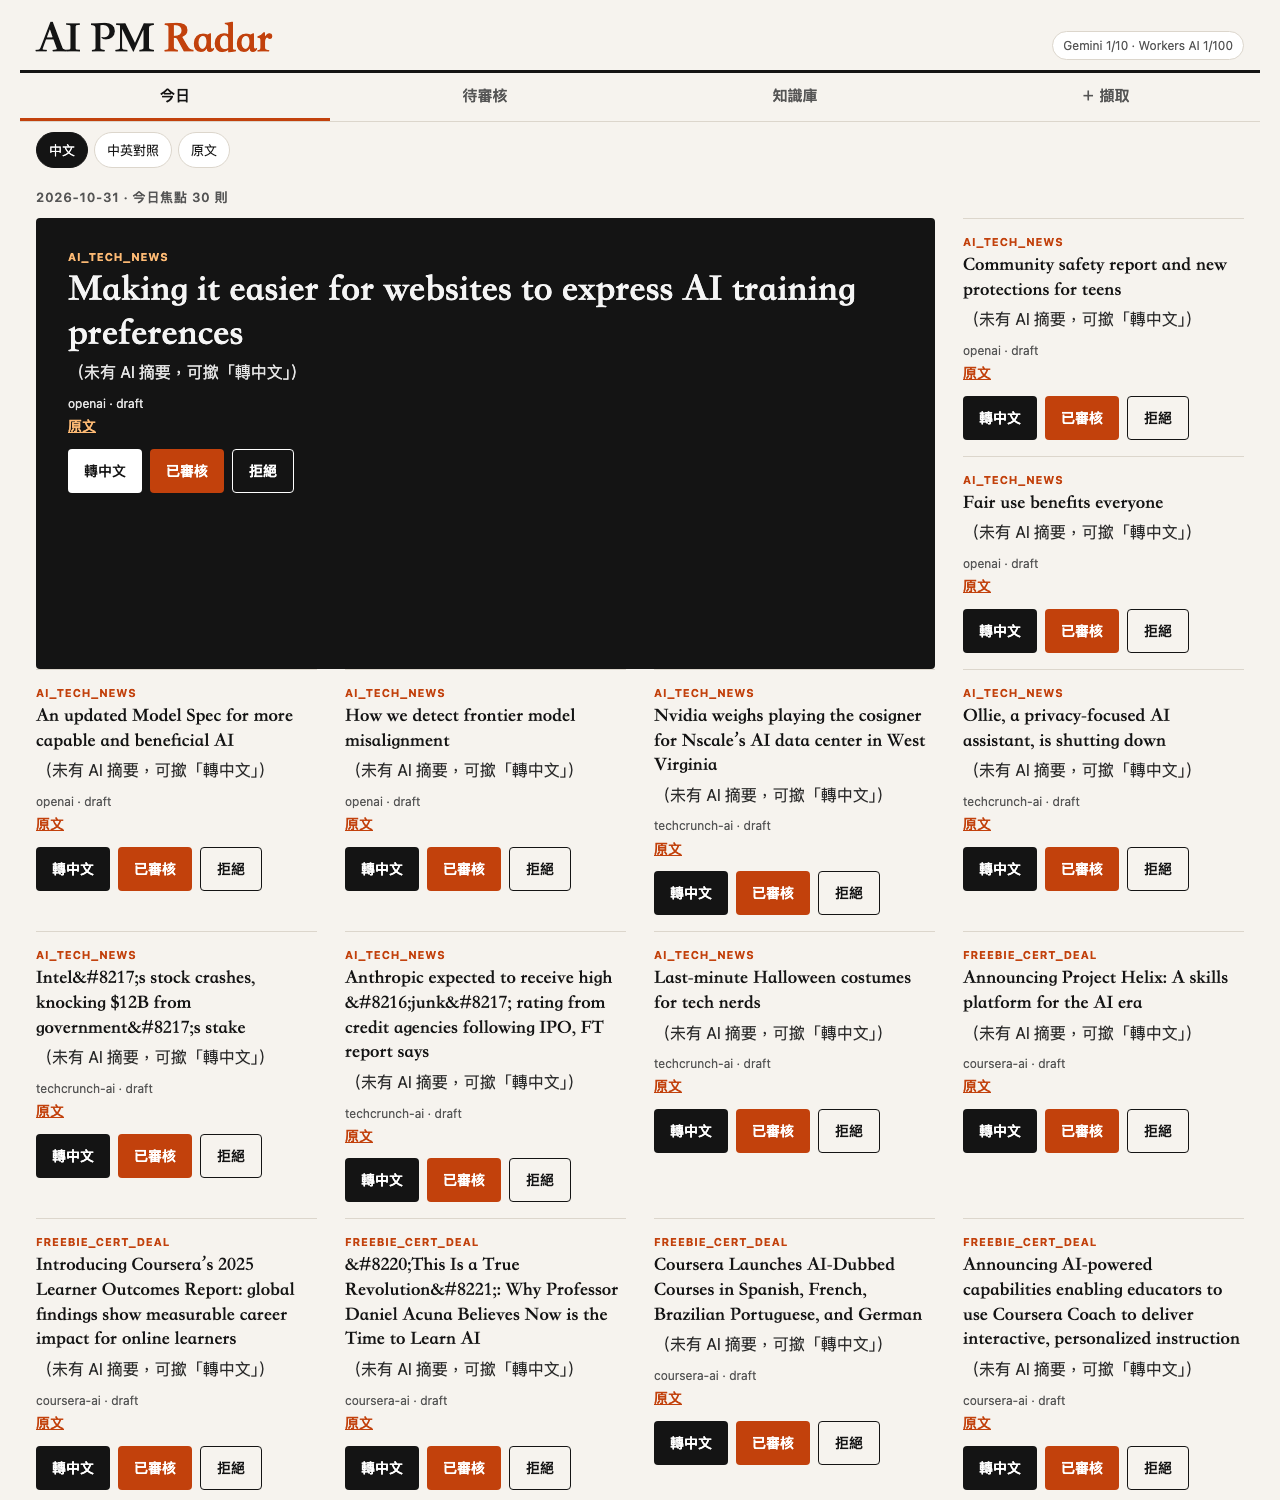
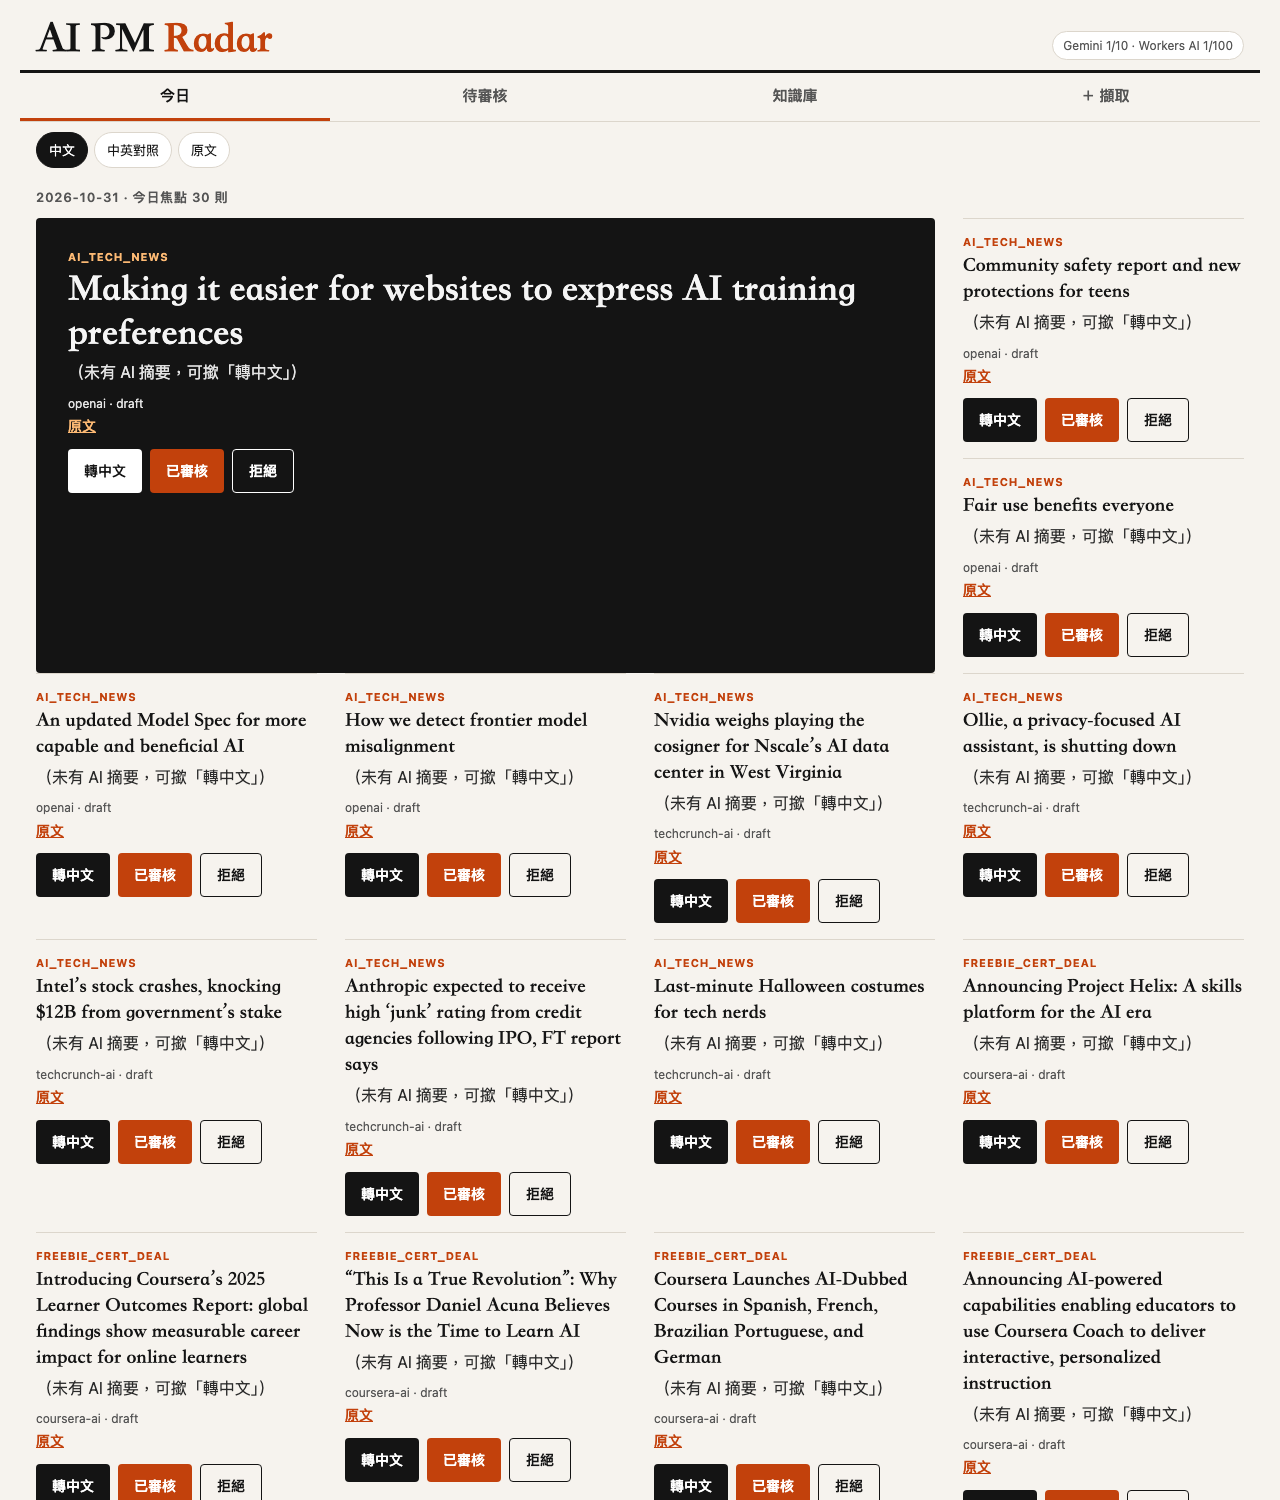
cloud UI: fix mobile overflow (minmax grid, wrapping titles, clamp fonts, fitting tabs); decode HTML entities in collector + render

diff --git a/cloud/public/app.css b/cloud/public/app.css
@@ -1,16 +1,16 @@
 :root{--bg:#f6f3ee;--ink:#141414;--mut:#555;--line:#dcd6cc;--acc:#c2410c;--card:#fff;--serif:"Songti TC","Noto Serif CJK TC",Georgia,"Times New Roman",serif;--sans:system-ui,-apple-system,"PingFang HK","Noto Sans CJK TC",sans-serif}
-*{box-sizing:border-box}body{margin:0;font:16px/1.6 var(--sans);background:var(--bg);color:var(--ink);padding-bottom:env(safe-area-inset-bottom)}
-header{display:flex;justify-content:space-between;align-items:flex-end;gap:8px;padding:16px 16px 10px;border-bottom:3px solid var(--ink);max-width:1240px;margin:0 auto}
+*{box-sizing:border-box}html,body{max-width:100%;overflow-x:hidden}body{margin:0;font:16px/1.6 var(--sans);background:var(--bg);color:var(--ink);padding-bottom:env(safe-area-inset-bottom)}
+header{display:flex;flex-wrap:wrap;justify-content:space-between;align-items:flex-end;gap:8px;padding:16px 16px 10px;border-bottom:3px solid var(--ink);max-width:1240px;margin:0 auto}
 h1{font:900 clamp(26px,7vw,44px)/1 var(--serif);margin:0;letter-spacing:-.02em}h1 span{color:var(--acc)}
-#cap{font-size:12px;color:var(--mut);background:var(--card);border:1px solid var(--line);border-radius:999px;padding:4px 10px;white-space:nowrap}
+#cap{font-size:12px;color:var(--mut);background:var(--card);border:1px solid var(--line);border-radius:999px;padding:4px 10px;white-space:normal;max-width:100%}
 nav{display:flex;position:sticky;top:0;z-index:5;background:var(--bg);border-bottom:1px solid var(--line);max-width:1240px;margin:0 auto;overflow-x:auto}
-nav button{flex:1;min-height:48px;padding:12px 6px;background:none;border:0;border-bottom:3px solid transparent;color:var(--mut);font:600 15px var(--sans);cursor:pointer}nav button.on{color:var(--ink);border-bottom-color:var(--acc)}
-#lang{display:flex;gap:6px;padding:10px 16px;max-width:1240px;margin:0 auto}#lang button{min-height:36px;padding:6px 12px;border-radius:999px;border:1px solid var(--line);background:var(--card);color:var(--ink);font:13px var(--sans);cursor:pointer}#lang button.on{background:var(--ink);color:#fff;border-color:var(--ink)}
+nav button{flex:1 1 0;min-width:0;white-space:nowrap;min-height:48px;padding:12px 6px;background:none;border:0;border-bottom:3px solid transparent;color:var(--mut);font:600 15px var(--sans);cursor:pointer}nav button.on{color:var(--ink);border-bottom-color:var(--acc)}
+#lang{display:flex;flex-wrap:wrap;gap:6px;padding:10px 16px;max-width:1240px;margin:0 auto}#lang button{min-height:36px;padding:6px 12px;border-radius:999px;border:1px solid var(--line);background:var(--card);color:var(--ink);font:13px var(--sans);cursor:pointer}#lang button.on{background:var(--ink);color:#fff;border-color:var(--ink)}
 main{padding:4px 16px 32px;max-width:1240px;margin:0 auto}.dateline{font:600 13px var(--sans);text-transform:uppercase;letter-spacing:.06em;color:var(--mut);margin:6px 0 12px}
-.grid{display:grid;grid-template-columns:1fr;gap:0}
+.grid{display:grid;grid-template-columns:minmax(0,1fr);gap:0}
 .card{background:transparent;padding:16px 0;border-top:1px solid var(--line);min-width:0}
 .kicker{font:700 11px var(--sans);letter-spacing:.08em;text-transform:uppercase;color:var(--acc);margin-bottom:4px}
-.card h3{font:800 19px/1.3 var(--serif);margin:0 0 6px}.card p{margin:0 0 8px;color:#2a2a2a}.card ul{margin:0 0 8px;padding-left:20px;color:#2a2a2a}.orig{color:var(--mut);font-size:14px;margin:0 0 6px}
+.card h3,.card p,.card li,.orig{overflow-wrap:anywhere;word-break:break-word}.card h3{font:800 clamp(17px,4.8vw,20px)/1.3 var(--serif);margin:0 0 6px}.card p{margin:0 0 8px;color:#2a2a2a}.card ul{margin:0 0 8px;padding-left:20px;color:#2a2a2a}.orig{color:var(--mut);font-size:14px;margin:0 0 6px}
 .card.feat{background:var(--ink);color:#f5f5f5;padding:20px;border-radius:4px;border:0;margin-bottom:8px}.card.feat h3{font-size:clamp(24px,6.5vw,38px);line-height:1.15}.card.feat p,.card.feat ul,.card.feat .orig,.card.feat .meta{color:#e4e4e4}.card.feat .kicker{color:#fdba74}.card.feat a{color:#fdba74}
 .meta{font-size:12px;color:var(--mut)}.card a{color:var(--acc);font-weight:600;font-size:14px}
 .acts{display:flex;flex-wrap:wrap;gap:8px;margin-top:10px}.acts button,form button{min-height:44px;padding:10px 16px;border-radius:4px;border:0;background:var(--acc);color:#fff;font:700 14px var(--sans);cursor:pointer}
@@ -19,6 +19,6 @@ button:focus-visible,a:focus-visible,input:focus-visible,textarea:focus-visible{
 #cap-form{max-width:720px;background:var(--card);border:1px solid var(--line);padding:16px;border-radius:4px}label{display:block;margin-bottom:12px;font-weight:600}
 input,textarea{width:100%;margin-top:6px;padding:12px;border-radius:4px;border:1px solid #9a9184;background:#fff;color:var(--ink);font:16px var(--sans)}
 .err{color:#b91c1c;background:#fef2f2;border-left:3px solid #b91c1c;padding:6px 10px;font-size:14px;margin-top:8px}
-@media (min-width:720px){.grid{grid-template-columns:repeat(2,1fr);column-gap:28px}.card.feat{grid-column:1/-1;padding:32px}}
-@media (min-width:1024px){.grid{grid-template-columns:repeat(4,1fr);column-gap:28px}.card.feat{grid-column:span 3;grid-row:span 2;margin-bottom:0}.card.wide{grid-column:span 2}.card.feat+.card,.card.feat+.card+.card{grid-column:span 1}}
+@media (min-width:720px){.grid{grid-template-columns:repeat(2,minmax(0,1fr));column-gap:28px}.card.feat{grid-column:1/-1;padding:32px}}
+@media (min-width:1024px){.grid{grid-template-columns:repeat(4,minmax(0,1fr));column-gap:28px}.card.feat{grid-column:span 3;grid-row:span 2;margin-bottom:0}.card.wide{grid-column:span 2}.card.feat+.card,.card.feat+.card+.card{grid-column:span 1}}
 @media (prefers-reduced-motion:reduce){*{transition:none!important}}

diff --git a/cloud/public/app.js b/cloud/public/app.js
@@ -1,5 +1,6 @@
 const view = document.getElementById("view");
-const esc = (s) => String(s ?? "").replace(/[&<>"']/g, (c) => ({ "&": "&amp;", "<": "&lt;", ">": "&gt;", '"': "&quot;", "'": "&#39;" }[c]));
+const dec = (s) => { const t = document.createElement("textarea"); t.innerHTML = String(s ?? ""); return t.value; };
+const esc = (s) => dec(s).replace(/[&<>"']/g, (c) => ({ "&": "&amp;", "<": "&lt;", ">": "&gt;", '"': "&quot;", "'": "&#39;" }[c]));
 const api = async (p, o) => { const r = await fetch(p, { credentials: "same-origin", ...o }); const j = await r.json().catch(() => ({})); if (!r.ok) throw Object.assign(new Error(j.error || r.status), { j }); return j; };
 const MSG = { ai_daily_cap_reached: "今日 AI 額度已用完（08:00 重設）", insufficient_content: "內容太短，請打開原文貼上正文（用「＋擷取」）",
   ai_bad_output: "AI 回覆格式有誤，請稍後再試", workers_ai_error: "後備 AI 暫時出錯，請稍後再試", workers_ai_unbound: "後備 AI 未設定",
